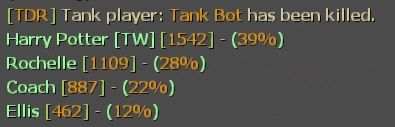
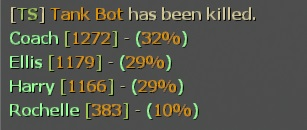
2023_08_22 update
l4d2_tdr v1.0h

Changed region(s): [[0.0, 0.0, 0.9674, 1.0], [0.1759, 0.0, 0.2345, 0.0236]]

diff --git a/Plugin_插件/Tank_坦克/l4d2_tdr/readme.md b/Plugin_插件/Tank_坦克/l4d2_tdr/readme.md
@@ -9,15 +9,18 @@ This plugin is private, Please contact [me](https://github.com/fbef0102/Game-Pri
 <br/>None
 
 * Image | 圖示
-	* example
-	<br/>![l4d2_tdr_1](image/l4d2_tdr_1.jpg)
+<br/>![l4d2_tdr_1](image/l4d2_tdr_1.jpg)
 
 * Require | 必要安裝
 <br/>None
 
 * <details><summary>ConVar | 指令</summary>
 
-	None
+	* cfg/sourcemod/l4d2_tdr.cfg
+		```php
+		// 0 - Displays tank damage info to players privately. 1 - Displays all damage info publicly.
+		l4d2_tdr_display_type "1"
+		```
 </details>
 
 * <details><summary>Command | 命令</summary>
@@ -27,8 +30,8 @@ This plugin is private, Please contact [me](https://github.com/fbef0102/Game-Pri
 
 * Apply to | 適用於
 	```
-	L4D1 Coop/Survival/Realism
-	L4D2 Coop/Survival/Realism
+	L4D1
+	L4D2
 	```
 
 * <details><summary>Similar Plugin | 相似插件</summary>
@@ -42,17 +45,9 @@ This plugin is private, Please contact [me](https://github.com/fbef0102/Game-Pri
 
 * <details><summary>Changelog | 版本日誌</summary>
 
-	```php
-	//Skyy @ 2012
-	//foxhound27 @ 2019
-	//Harry @ 2022
-	```
-	* v1.3
+	* v1.0h (2023-8-22)
 		* Remake Code
 	    * More accurate damage done to tank
-
-    * v1.1c
-        * [By Skyy](https://forums.alliedmods.net/showthread.php?t=181346)
 </details>
 
 - - - -
@@ -60,4 +55,6 @@ This plugin is private, Please contact [me](https://github.com/fbef0102/Game-Pri
 Tank死亡時顯示對Tank造成傷害統計表
 
 * 原理
-	* 不適用於對抗模式
+	* 按照傷害排序
+	* 精準傷害計算
+	* 也適用於對抗模式

diff --git a/Plugin_插件/Server_伺服器/l4d_scoreboard_panel/readme.md b/Plugin_插件/Server_伺服器/l4d_scoreboard_panel/readme.md
@@ -8,13 +8,18 @@ This plugin is private, Please contact [me](https://github.com/fbef0102/Game-Pri
 * Video | 影片展示
 <br/>None
 
-* Image | 圖示
+* <details><summary>Image | 圖示</summary>
+
 	* A = Afk (Idle Player), X = Dead, ~ = Incapacitated, + = Alive, H = Hanging from ledge, 0 = Spectator, number = HP
 		> A = Afk (閒置玩家), X = 死亡, ~ = 倒地, + = 活著站立, H = 掛邊, 0 = 旁觀者, 數字為玩家的血量
 		<br/>![l4d_scoreboard_panel_1](image/l4d_scoreboard_panel_1.jpg)
 	* SI(+) = Alive Infected, SI(G) = Ghost Infected, number = HP
 		> SI(+) = 活著的特感玩家, SI(G) = 靈魂特感玩家, 數字為玩家的血量
 		<br/>![l4d_scoreboard_panel_2](image/l4d_scoreboard_panel_2.jpg)
+	* Support multi players
+		> 支援多人倖存者
+		<br/>![l4d_scoreboard_panel_3](image/l4d_scoreboard_panel_3.jpg)
+</details>
 
 * <details><summary>How does it work?</summary>
 
